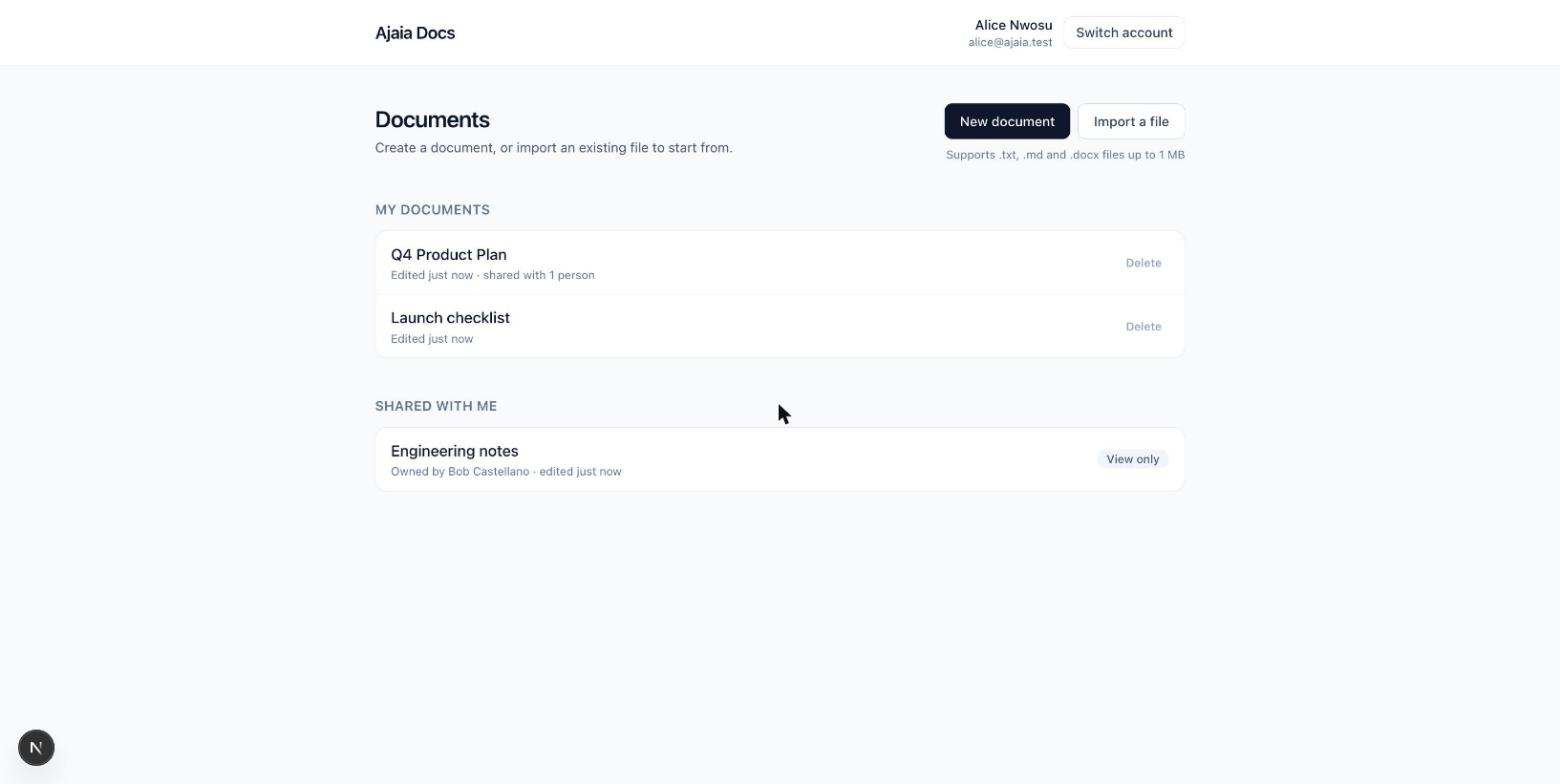
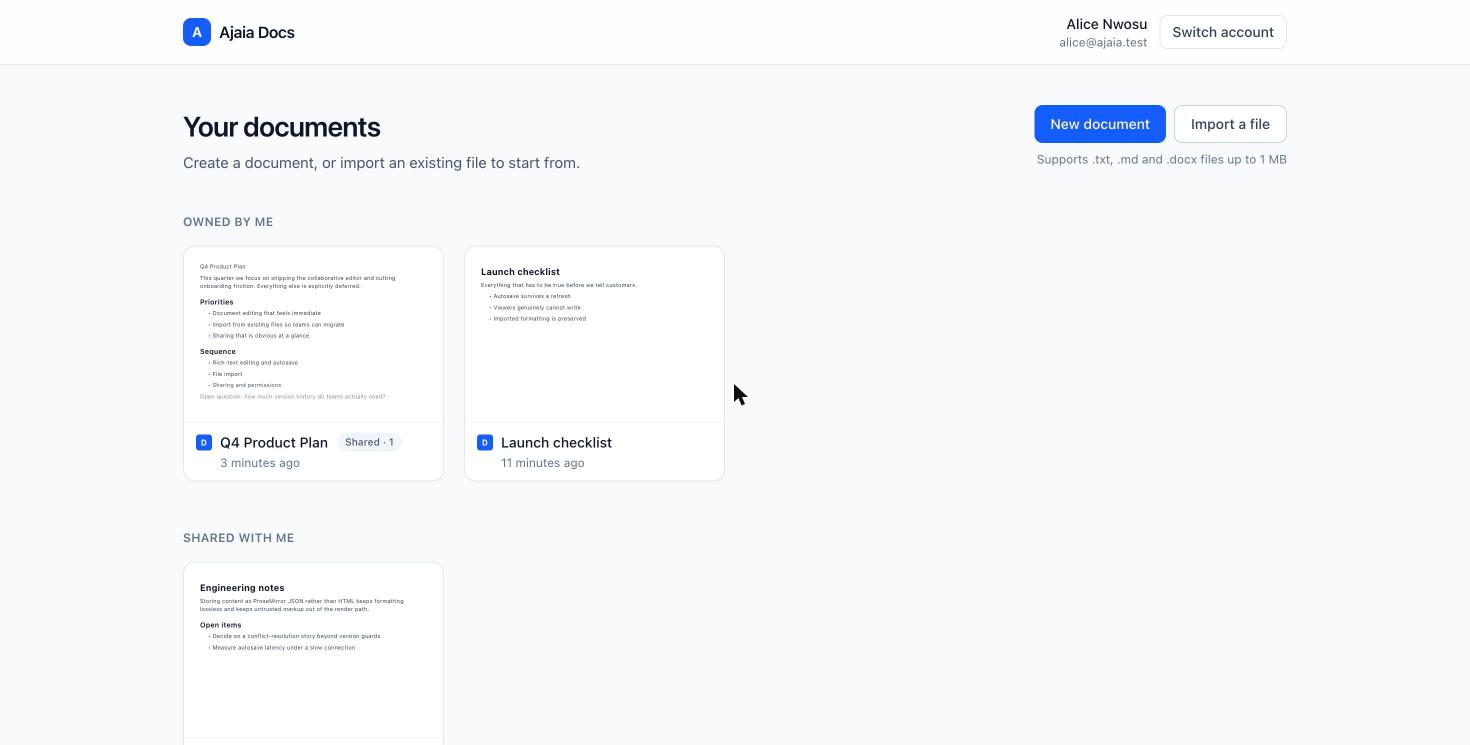
Update the list screenshot and note the preview cards
Claude-Session: https://claude.ai/code/session_01QAJ4b9aTKf3uHt4V24NZVp

diff --git a/SUBMISSION.md b/SUBMISSION.md
@@ -44,11 +44,15 @@ Akintunji Sule · `akintunji.sule@gmail.com` · November 2026
 
 ## Working end to end
 
+**Document list** — a grid of preview cards showing a miniature of each document's real
+content, with the name and metadata underneath.
+
 **Documents** — create, rename inline, edit, reopen. Bold, italic, underline, H1–H3,
 bulleted and numbered lists, with toolbar active states.
 
-**Images** — insert PNG/JPEG/GIF/WebP up to 2 MB and set the width (Small / Medium /
-Large / Full). Images are stored per document and served through the same authorization
+**Images** — insert PNG/JPEG/GIF/WebP up to 2 MB. Selecting a picture shows a size
+control under it (Small / Medium / Large / Full, plus Remove), attached to the image
+rather than buried in the toolbar. Images are stored per document and served through the same authorization
 check as the document, so they are exactly as private as the document holding them.
 
 **Download as PDF** — a print stylesheet plus the browser's own "Save as PDF". No
